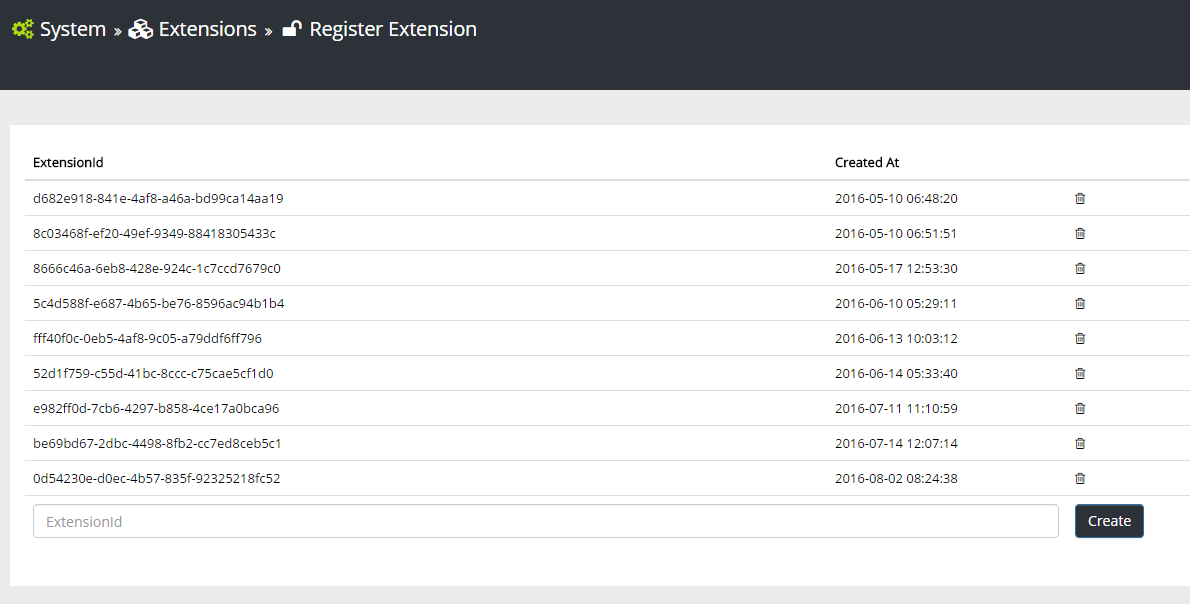
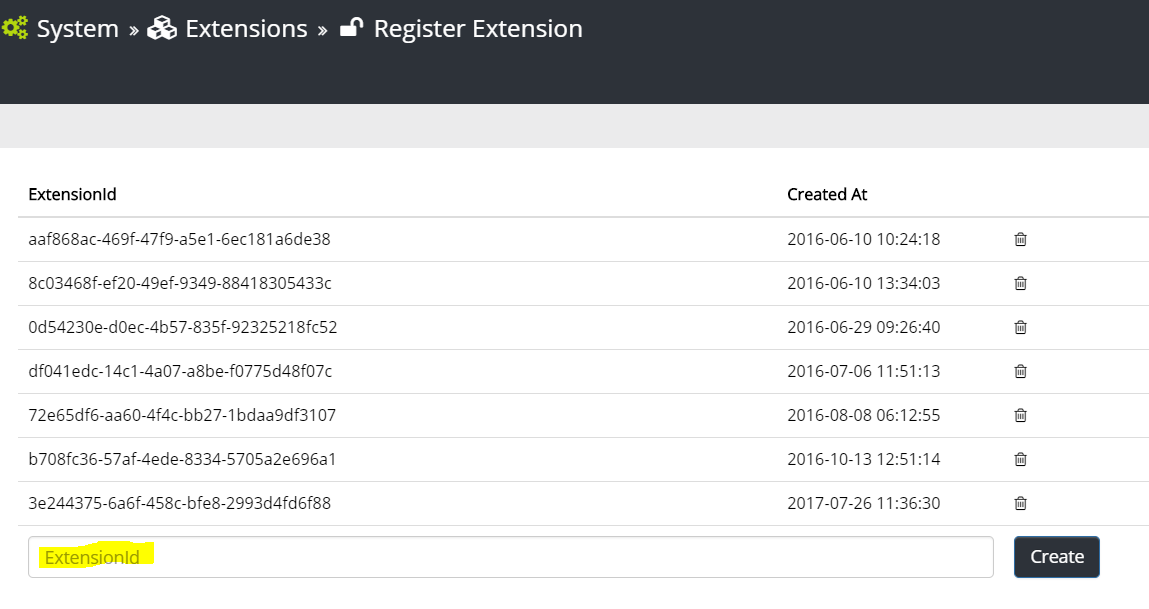
New version of the getting started guide

diff --git a/getting-started.rst b/getting-started.rst
@@ -1,44 +1,22 @@
 Getting Started
 ===============
 
-1. Install Node JS
+1. Install Visual Studio 2017 
 ######
 
-Download and install Node JS from https://nodejs.org/ . Choose the latest **Current** version.
+Download and install Visual Studio 2017 (not Community edition)
 
-2. Install Office Developer Tools
-####
+2. Install Node JS
+######
+
+Download and install Node JS from https://nodejs.org/ . Choose the latest **Current** version. (Tested with version 8.5.0)
+
+3. Install Office Developer Tools
+######
 
 Download and install Office Developer Tools from https://www.visualstudio.com/vs/office-tools/
 
-3. Install TypeScript for Visual Studio
-#####
-
-Download and install TypeScript for Visual Studio. 
-
-The installation file for Visual Studio 2015 is available from https://www.microsoft.com/en-us/download/details.aspx?id=48593
-
-4. Install Omnia Tooling for Visual Studio
-##############################################################
-
-Download and install :doc:`Omnia Tooling for Visual Studio <release-notes/tooling>`
-
-5. Create new project with Omnia Extension project template
-##############################################################
-
-.. image:: /images/toolings-project-templates.png
-
-.. note:: 
-    - **Omnia Documentation** - Project template for empty Omnia documentation package
-    - **Omnia Extension** - Project template for empty Omnia extension package
-    - **Omnia Extension Sample** - Project template for Omnia extension package and Web API with samples
-    - **Omnia Extension With Web API** -  Project template for empty Omnia extension package and Web API
-
-A project created with Omnia Extension Sample template will have a structure like this
-
-.. image:: /images/toolings-project-structure.png
-
-6. Configure Precio Fishbone NuGet package source in Visual Studio
+4. Configure Precio Fishbone NuGet package source in Visual Studio
 ##############################################################
 
 Precio Fishbone NuGet package source is needed for download Omnia NuGet packages. To configure Precio Fishbone NuGet package source, follow these steps:
@@ -51,29 +29,81 @@ Precio Fishbone NuGet package source is needed for download Omnia NuGet packages
 
 .. image:: /images/nuget-package-source.png
 
+5. Install Omnia Tooling for Visual Studio
+######
 
-7. Register your extension in Omnia Foundation
-##############################################################
+Download and install :doc:`Omnia Tooling for Visual Studio <release-notes/tooling>`
 
-Open the file **extension.json** in MyOmniaExtension project and copy the extension ID
+6. Create new project with Omnia Extension project template
+#######
 
-.. image:: /images/toolings-extension-id-json.png
+.. image:: /images/extension-new-project.png
 
-Go to the admin page of your Omnia environment and navigate to **System > Extensions > Register Extension**
+.. note:: 
+    - **Omnia Documentation** - Project template for creating an Omnia documentation package
+    - **Omnia Extension** - Project template for creating an Omnia extension package
+	
+Select the **Omnia Extension** template and name your project. Click OK.
+
+The following screen opens
+
+.. image:: /images/extension-new-omnia-extension-project.png
+
+The first section is where you enter metadata about your extension. Normally there is no need to change these two values
+
+.. image:: /images/extension-dialog-extension.png 
+
+The second section exists to help you configure the communication beween your development environment and your Omnia tenant
+
+.. image:: /images/extension-dialog-devenv.png
+
+- **Tenant Id** is found in Omnia Admin in your tenant, in the Settings section (see image below)
+- **Foundation Url** is also found in Omnia Admin, in the Settings section (see image below)
+
+.. image:: /images/omnia-admin-tenant-info.png
+
+- **Api Secret**. This secret is recieved from Omnia by navigating to Omnia Admin > System > Extensions > Register Extension and paste in your Extension Id (from the Visual Studio dialog)
 
 .. image:: /images/omnia-admin-register-extension.png
 
-Fill in your extension ID and click create. Your extension will be registered with a secret key which you should save for later use.
+.. image:: /images/omnia-admin-register-extension2.png
 
-.. image:: /images/omnia-admin-new-extension-secret.png
 
-8. Set the environment information in your project
+The third section's purpose is there to help you target the correct API version, both in Omnia and SharePoint
+
+.. image:: /images/extension-dialog-apiversion.png
+
+The Foundation API version used in your tenant can be found in Omnia Admin > System, in the *Developer Information*  section
+
+The right hand side of the dialog determines the structure and files that will be created in the Extension projects
+
+.. image:: /images/extension-dialog-project-options.png
+
+- The **Extension Package** checkbox controls if an Omnia Extension project is created in the solution
+- The **Web API** checkbox controls if a Web API project, prepared to communicate with Omnia is created in the solution
+
+The **Extension Package** checkbox has some child items that can be selected
+
+- The **Client Side** checkbox determines if the project structure and files for doing client side development should be added to the solution
+ - The **Angular Tooling** checkbox makes sure the relevant files and tooling support for Angular development is added
+ - The **Less Tooling** checkbox makes sure the relevant files and tooling support for compiling Less files is added
+- The **Server Side** checkbox determined if the project structure for doing server side development (like features, jobs etc.) is added to the project
+ - Below the **Examples** checkbox you can select different code examples to be provisioned to your project, to set you off to a quick start
+- The **Setup basic folder structure** checkbox will add a best practice folder structure to your project
+
+After filling in all the fields in the form, and selecting all the checkboxes, the following solution structire will be created
+
+.. image:: /images/toolings-project-structure-new.png
+
+7. Alter the environment information in your project 
 ##############################################################
 
-Open the file **environment.json** in MyOmniaExtension  and fill in:
+*(when changing tenant, or when passing the extension over to a fellow developer)*
+
+Open the file **environment.json** in MyOmniaExtension and fill in:
 
 - TenantId: you can get from the System page in Omnia admin
-- ApiSecret: the secret you got when registered your extension in step 3
+- ApiSecret: the secret you got when registered your extension in step 6
 - FoundationUrl: the URL to your Omnia admin 
 
 .. image:: /images/toolings-environment-json.png
@@ -81,7 +111,7 @@ Open the file **environment.json** in MyOmniaExtension  and fill in:
 9. Deploy your extension
 ##############################################################
 
-Right click on MyOmniaExtension project and click Omnia Deploy
+Right click on Extension project (DevelopDocumentation) and click Omnia Deploy
 
 .. image:: /images/toolings-omnia-deploy.png
 
@@ -96,10 +126,8 @@ After the extension has been deployed successfully to Omnia, you can verify it b
 
 .. image:: /images/omnia-admin-new-extension-success.png 
 
-And in the **Features** page you should see the features from your extension. Click on MyOmniaExtension Sample Feature Core and click Activate.
+And in the **Features** page you should see the features from your extension. Click on **MyOmniaExtension Core** and click Activate.
 
 .. image:: /images/omnia-admin-new-extension-feature.png 
 
-After the feature has been activate, refresh the page and you should see the hello world page from your extension:
-
-.. image:: /images/omnia-admin-new-extension-helloworld.png 
+After the feature has been activate, refresh the page and you should see a new fav icon
